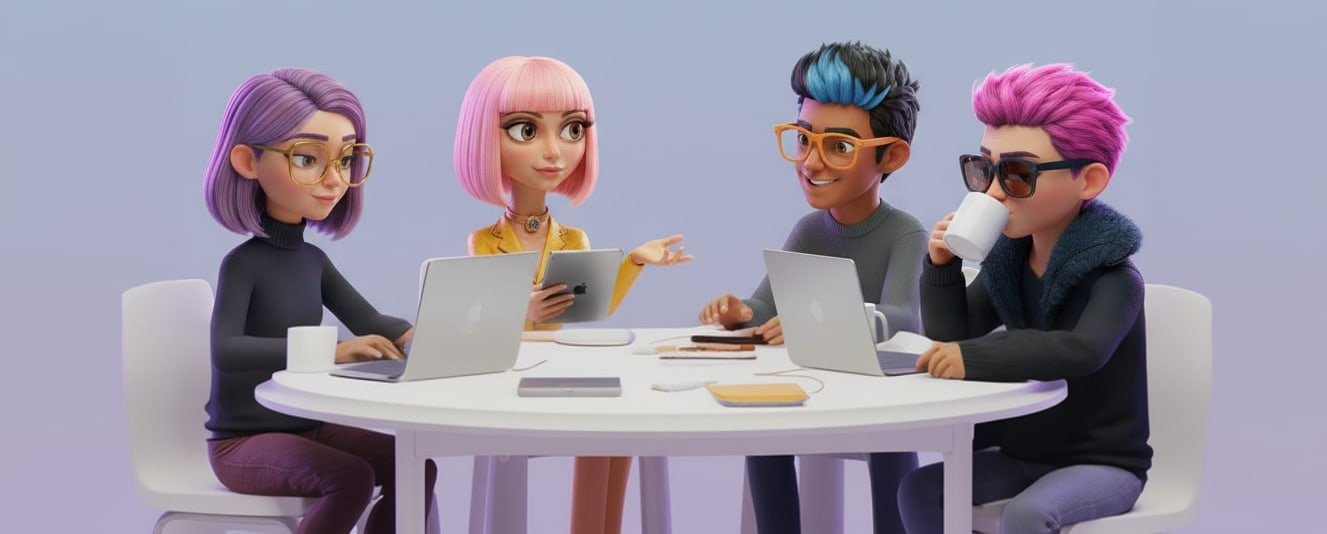
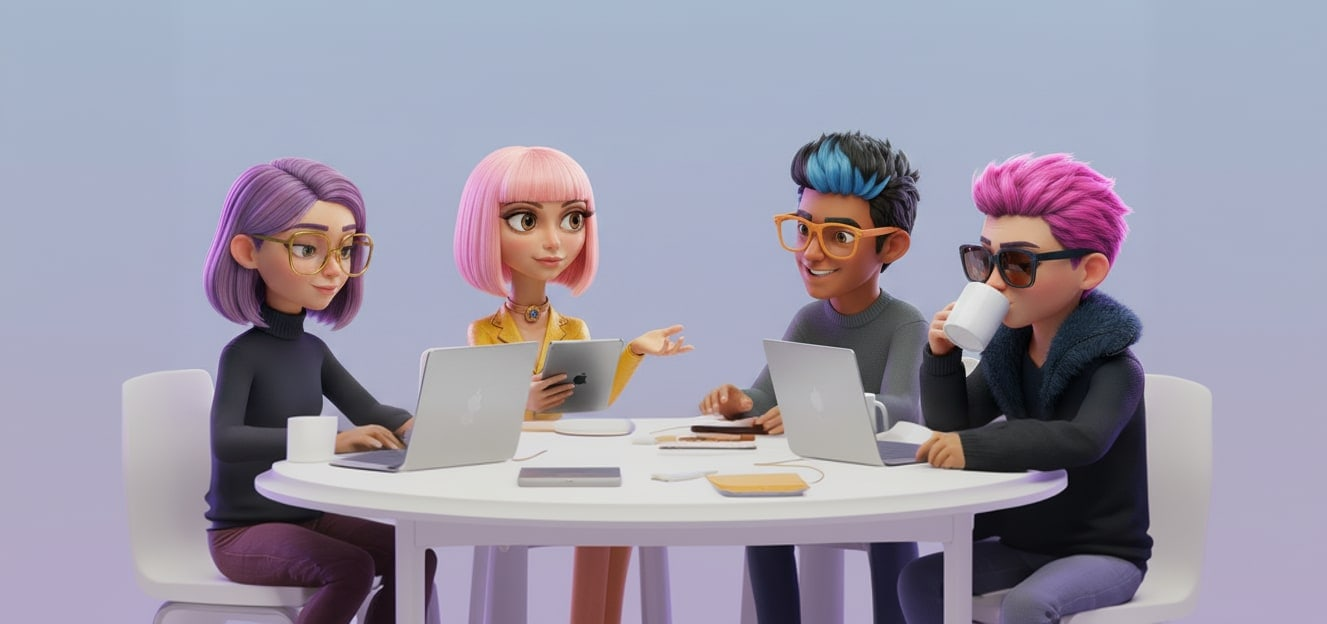
Keep headroom above agents so name pills don't cover faces (#83)
The illustration was cropped so tightly (heads ~13% from the top) that the
name pills landed on the faces. Re-crop with more headroom (remove 17% of
the top instead of 29%, restored from the original) so there's a clean band
above the heads for the pills; update the layer aspect ratio + image dims
to match. Pills now sit above the faces on desktop and mobile, and the
illustration still fills the detail-card height with no padding.

diff --git a/src/components/AgentsSection.tsx b/src/components/AgentsSection.tsx
@@ -241,12 +241,12 @@ export default function AgentsSection(): ReactElement {
             {/* Full-image layer — overlays are positioned in the image's own
                 coordinates, so the name pills stay locked to each agent even
                 when the sides are clipped on desktop. */}
-            <div className="relative w-full md:h-full md:w-auto md:shrink-0 md:aspect-[1327/534]">
+            <div className="relative w-full md:h-full md:w-auto md:shrink-0 md:aspect-[1327/624]">
               <Image
                 src="/figma/agents-table-crop.jpg"
                 alt="Emilia, Donna, Danny and John — the AI agent workforce at a table"
                 width={1327}
-                height={534}
+                height={624}
                 className="h-auto w-full md:h-full md:w-auto"
                 sizes="(max-width: 1024px) 92vw, 560px"
               />
